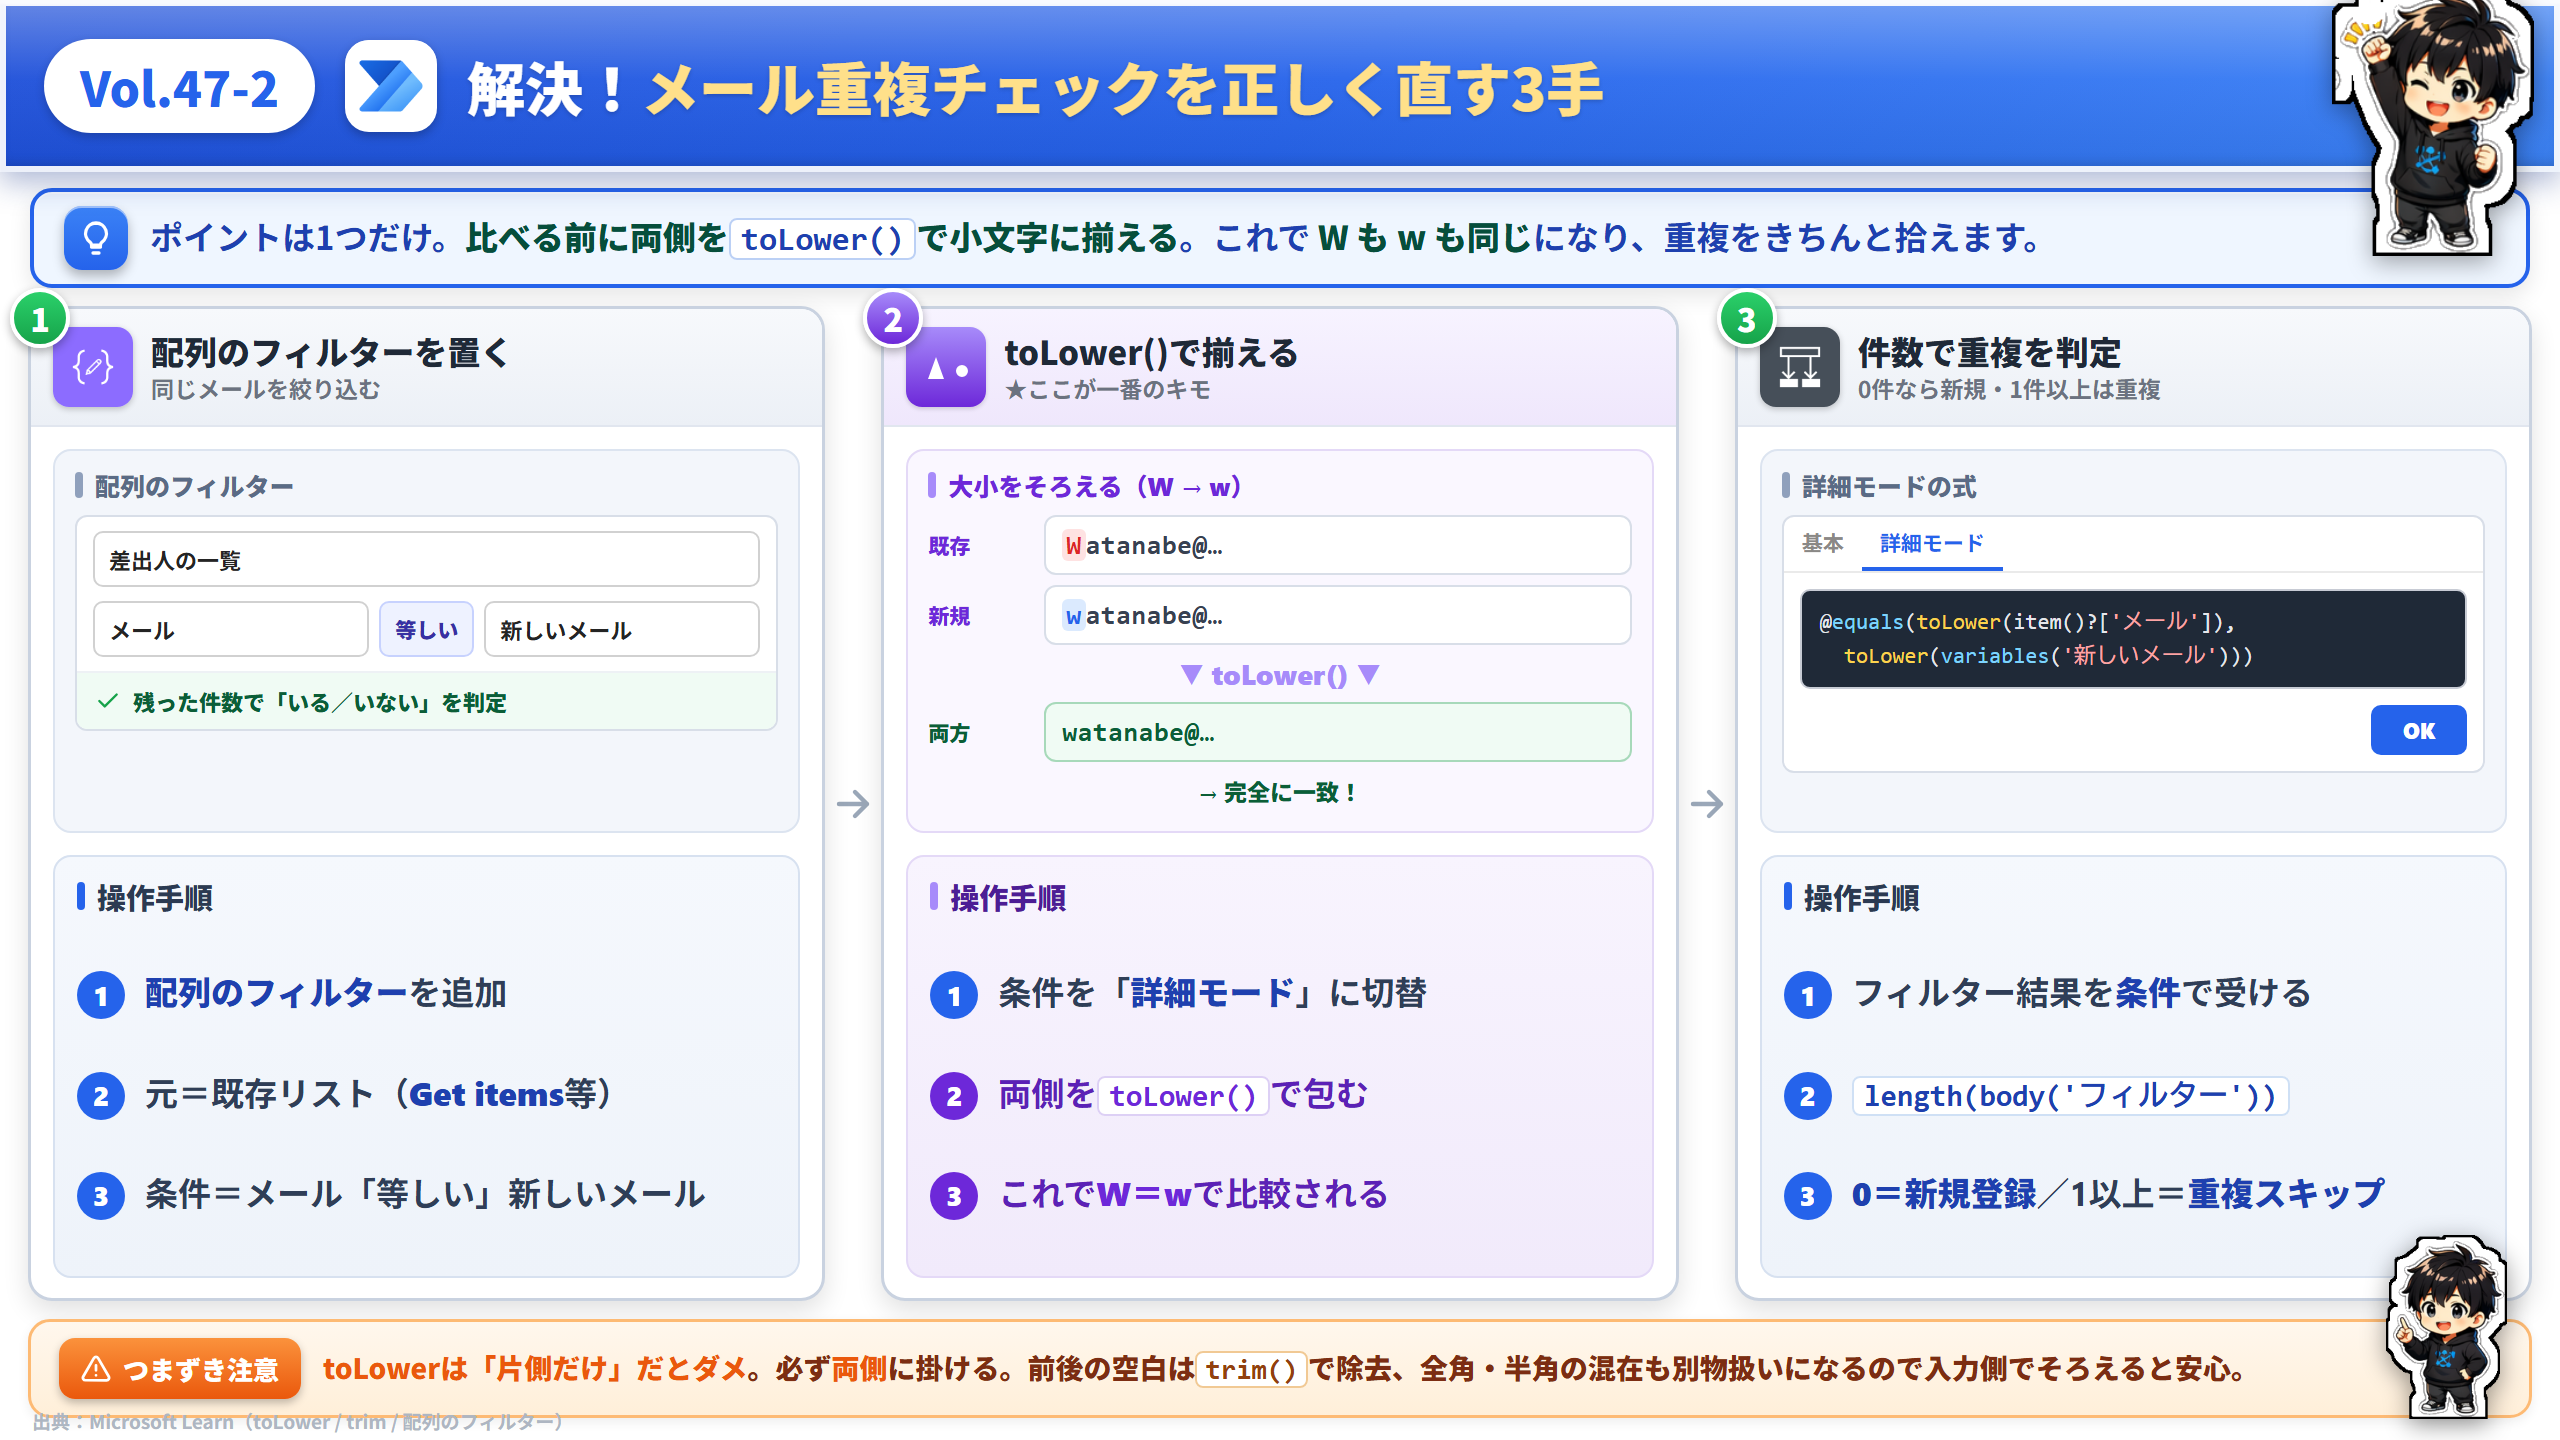
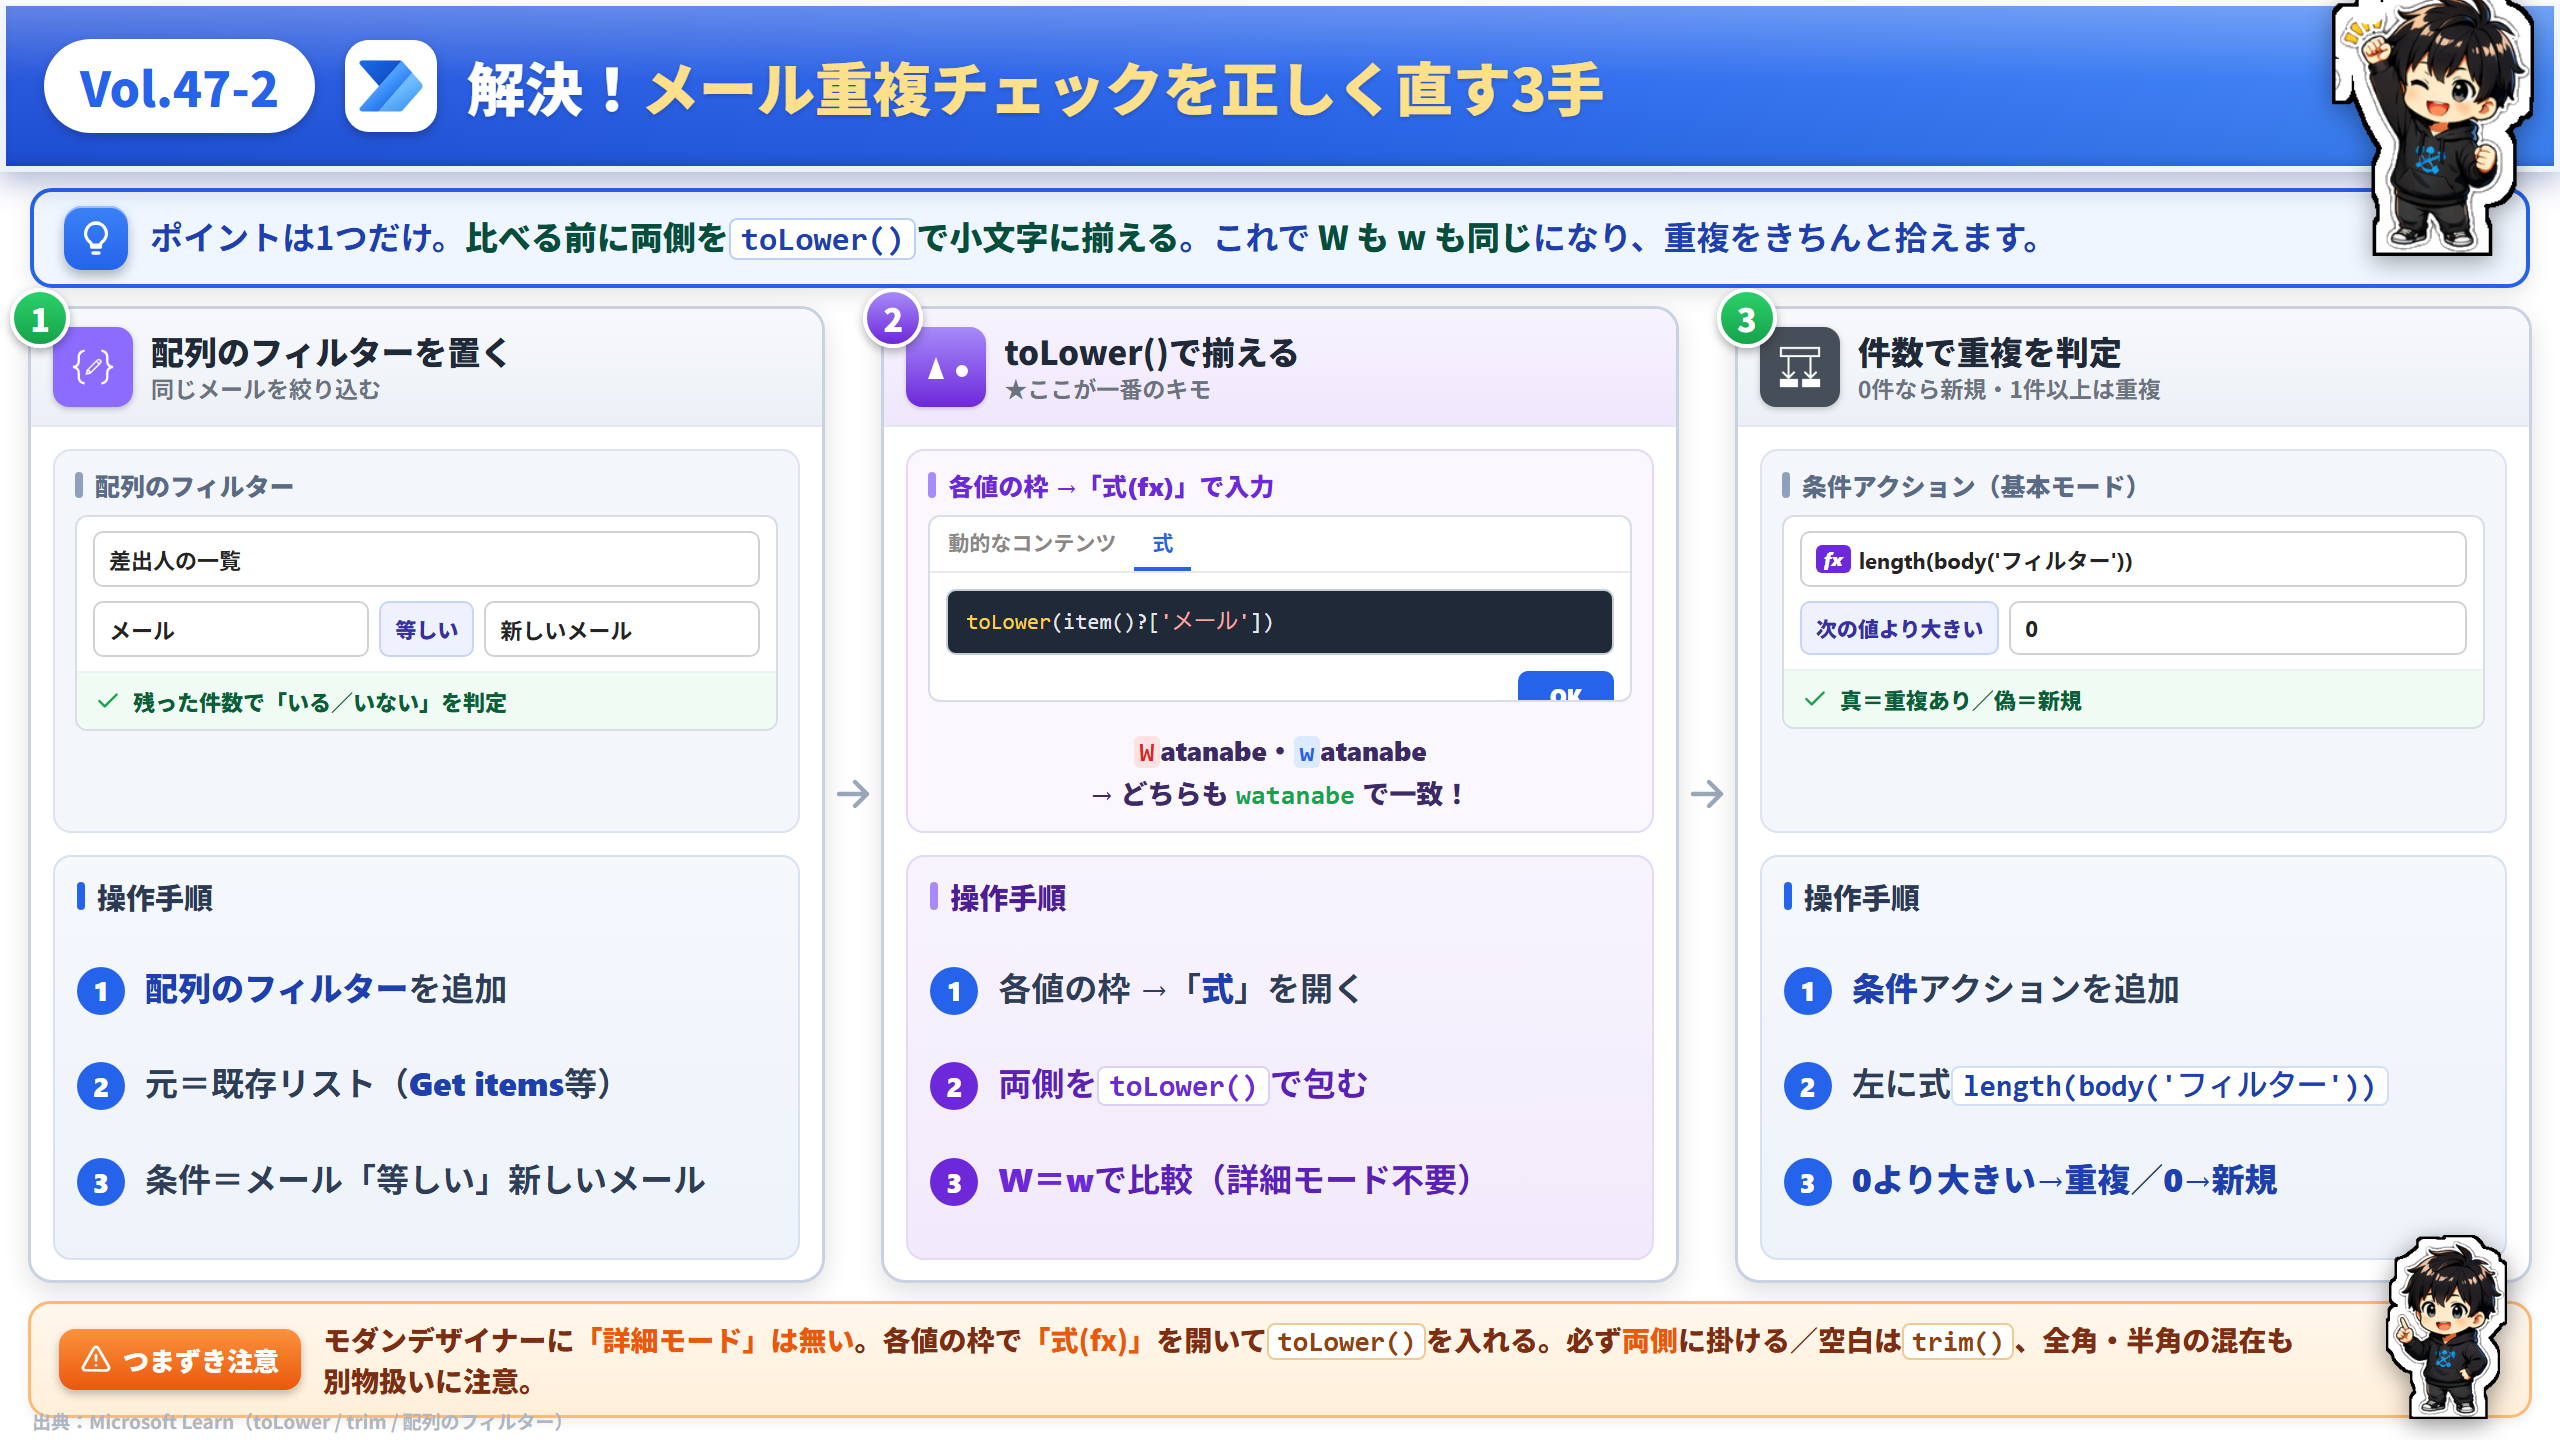
Vol.47-2: モダンデザイナー前提に修正（詳細モード廃止・式fxでtoLower）
新デザイナーは条件/配列のフィルターに「詳細モード」が無いため、
各値の枠で式(fx)を開いてtoLower()を入れる手順に変更。
col3は条件アクション基本モードでlength(body('フィルター'))>0判定に。
toLower()は実在のWDL文字列関数（出典: Microsoft Learn）。

diff --git a/assets/x/html/vol-47b/index.html b/assets/x/html/vol-47b/index.html
@@ -73,6 +73,11 @@
   .ldown{align-self:center;color:#A78BFA;font-weight:900;font-size:14px;}
   .lbox.done{border-color:#A7D9BA;background:#F0FBF4;color:#0B5E37;}
   .leq{margin-top:1px;text-align:center;font-size:11.5px;font-weight:900;color:#0B5E37;}
+  .wresult{margin-top:8px;text-align:center;font-size:13.5px;font-weight:800;color:#3B2A66;line-height:1.5;}
+  .wresult .up{color:#DC2626;background:#FEE2E2;border-radius:3px;padding:0 3px;font-family:'Consolas',monospace;}
+  .wresult .lo{color:#2563EB;background:#DBEAFE;border-radius:3px;padding:0 3px;font-family:'Consolas',monospace;}
+  .wresult b{color:#16A34A;font-family:'Consolas',monospace;}
+  .fxtag{display:inline-block;font-weight:900;font-size:9px;color:#fff;background:#6D28D9;border-radius:3px;padding:1px 4px;margin-right:4px;vertical-align:middle;font-style:italic;}
 
   /* mock: 式エディタ */
   .fxb{background:#fff;border:1px solid #D8DEE8;border-radius:6px;overflow:hidden;}
@@ -176,21 +181,20 @@ s.innerHTML=`
         <div class="ch"><span class="sq">${svgF('case')}</span><span class="nm">toLower()で揃える<small>★ここが一番のキモ</small></span></div>
         <div class="cp">
           <div class="ptop">
-            <div class="sect">大小をそろえる（W → w）</div>
-            <div class="lower">
-              <div class="lrow"><span class="ltag">既存</span><span class="lbox"><span class="up">W</span>atanabe@…</span></div>
-              <div class="lrow"><span class="ltag">新規</span><span class="lbox"><span class="lo">w</span>atanabe@…</span></div>
-              <div class="ldown">▼ toLower() ▼</div>
-              <div class="lrow"><span class="ltag" style="color:#0B5E37">両方</span><span class="lbox done">watanabe@…</span></div>
-              <div class="leq">→ 完全に一致！</div>
+            <div class="sect">各値の枠 →「式(fx)」で入力</div>
+            <div class="fxb">
+              <div class="fxtabs"><span>動的なコンテンツ</span><span class="on">式</span></div>
+              <div class="fxin"><span class="f">toLower</span>(item()?[<span class="s">'メール'</span>])</div>
+              <div class="fxok"><span>OK</span></div>
             </div>
+            <div class="wresult"><span class="up">W</span>atanabe・<span class="lo">w</span>atanabe<br>→ どちらも <b>watanabe</b> で一致！</div>
           </div>
           <div class="howsteps">
             <div class="hh">操作手順</div>
             <ol>
-              <li><span class="sn">1</span><span>条件を「<b>詳細モード</b>」に切替</span></li>
+              <li><span class="sn">1</span><span>各値の枠 →「<b>式</b>」を開く</span></li>
               <li class="key2"><span class="sn">2</span><span>両側を<code>toLower()</code>で包む</span></li>
-              <li class="key2"><span class="sn">3</span><span>これで<b>W＝w</b>で比較される</span></li>
+              <li class="key2"><span class="sn">3</span><span><b>W＝w</b>で比較（詳細モード不要）</span></li>
             </ol>
           </div>
         </div>
@@ -205,19 +209,19 @@ s.innerHTML=`
         <div class="ch"><span class="sq real"><img src="${A}icons/pa_condition.png" alt=""></span><span class="nm">件数で重複を判定<small>0件なら新規・1件以上は重複</small></span></div>
         <div class="cp">
           <div class="ptop">
-            <div class="sect">詳細モードの式</div>
-            <div class="fxb">
-              <div class="fxtabs"><span>基本</span><span class="on">詳細モード</span></div>
-              <div class="fxin">@<span class="k">equals</span>(<span class="f">toLower</span>(item()?[<span class="s">'メール'</span>]),<br>&nbsp;&nbsp;<span class="f">toLower</span>(<span class="k">variables</span>(<span class="s">'新しいメール'</span>)))</div>
-              <div class="fxok"><span>OK</span></div>
+            <div class="sect">条件アクション（基本モード）</div>
+            <div class="flt">
+              <div class="frow"><span class="cl"><span class="fxtag">fx</span> length(body('フィルター'))</span></div>
+              <div class="frow" style="padding-top:0"><span class="cl op">次の値より大きい</span><span class="cl">0</span></div>
+              <div class="note">${svg('check')}<span>真＝重複あり／偽＝新規</span></div>
             </div>
           </div>
           <div class="howsteps">
             <div class="hh">操作手順</div>
             <ol>
-              <li><span class="sn">1</span><span>フィルター結果を<b>条件</b>で受ける</span></li>
-              <li><span class="sn">2</span><span><code>length(body('フィルター'))</code></span></li>
-              <li><span class="sn">3</span><span><b>0＝新規登録</b>／1以上＝<b>重複スキップ</b></span></li>
+              <li><span class="sn">1</span><span><b>条件</b>アクションを追加</span></li>
+              <li><span class="sn">2</span><span>左に式<code>length(body('フィルター'))</code></span></li>
+              <li><span class="sn">3</span><span><b>0より大きい→重複</b>／<b>0→新規</b></span></li>
             </ol>
           </div>
         </div>
@@ -227,7 +231,7 @@ s.innerHTML=`
 
   <div class="pitfall">
     <div class="pl">${svg('warn')}つまずき注意</div>
-    <div class="px"><b>toLowerは「片側だけ」だとダメ</b>。必ず<b>両側</b>に掛ける。前後の空白は<code>trim()</code>で除去、全角・半角の混在も別物扱いになるので入力側でそろえると安心。</div>
+    <div class="px">モダンデザイナーに<b>「詳細モード」は無い</b>。各値の枠で<b>「式(fx)」</b>を開いて<code>toLower()</code>を入れる。必ず<b>両側</b>に掛ける／空白は<code>trim()</code>、全角・半角の混在も別物扱いに注意。</div>
     <img class="pit-chara" src="${A}chara/chara_point.png" alt="">
   </div>
   <div class="src">出典：Microsoft Learn（toLower / trim / 配列のフィルター）</div>
